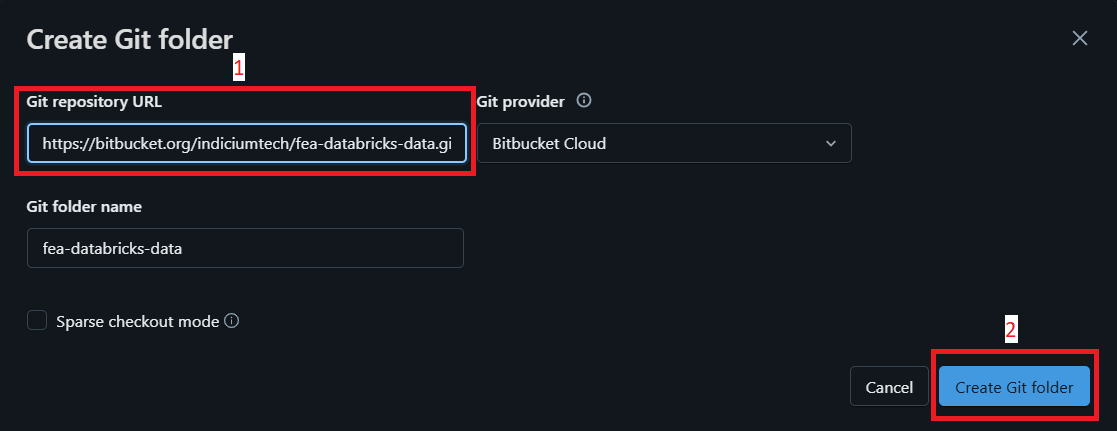
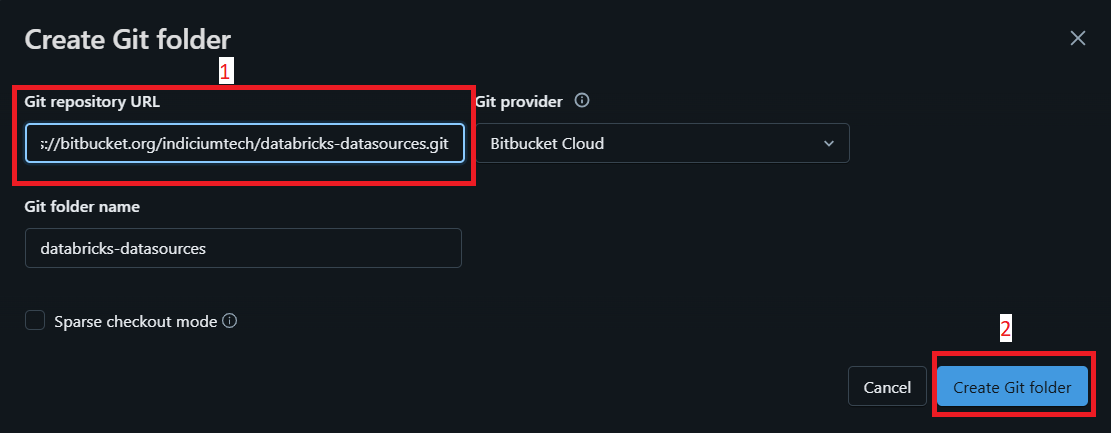
updating readmes

diff --git a/README.md b/README.md
@@ -42,16 +42,16 @@ Para ter acesso aos arquivos do curso, vamos clonar este repositório diretament
 1. **Preencha a URL do Repositório:**
     No campo **URL do repositório Git (Git repository URL)**, cole a seguinte URL:
     ```
-    https://bitbucket.org/indiciumtech/fea-databricks-data.git
+    https://bitbucket.org/indiciumtech/databricks-datasources.git
     ```
-    O campo "Nome do repositório" (Git folder name) será preenchido automaticamente como `fea-databricks-data`. Mantenha o provedor Git como "Bitbucket".
+    O campo "Nome do repositório" (Git folder name) será preenchido automaticamente como `databricks-datasources`. Mantenha o provedor Git como "Bitbucket".
 
 2. **Clone o Repositório:**
     Clique no botão azul **Criar Repositório (Create Git folder)**. O Databricks irá se conectar ao Bitbucket e baixar todos os arquivos.
 
 ![Git Folder Creation](images/folder_creation.png)
 
-Pronto! Agora você deve ver a pasta `fea-databricks-data` no seu workspace.
+Pronto! Agora você deve ver a pasta `databricks-datasouces` no seu workspace.
 
 ![Workspace Folders](images/workspace.png)
 

diff --git a/fada/README.md b/fada/README.md
@@ -15,7 +15,7 @@
 Com o repositório configurado, o próximo passo é executar o código para criar as tabelas.
 
 1.  **Abra o Notebook de Ingestão:**
-    Dentro da pasta `fea-databricks-data` que você acabou de clonar, clique na pasta `fada`, encontre e clique no notebook chamado `banvic_marts_ingestion`.
+    Dentro da pasta `databricks-datasources` que você acabou de clonar, clique na pasta `fada`, encontre e clique no notebook chamado `banvic_marts_ingestion`.
 
 2.  **Execute o Notebook:**
     Clique no botão **Executar tudo (Run all)**, localizado na barra de ferramentas superior do notebook.

diff --git a/fea/README.md b/fea/README.md
@@ -17,7 +17,7 @@
 Com o repositório configurado, o próximo passo é executar o código para criar as tabelas.
 
 1.  **Abra o Notebook de Ingestão:**
-    Dentro da pasta `fea-databricks-data` que você acabou de clonar, clique na pasta `fea`, encontre e clique no notebook chamado `databases_ingestion`.
+    Dentro da pasta `databricks-datasources` que você acabou de clonar, clique na pasta `fea`, encontre e clique no notebook chamado `databases_ingestion`.
 
 2.  **Execute o Notebook:**
     Clique no botão **Executar tudo (Run all)**, localizado na barra de ferramentas superior do notebook.